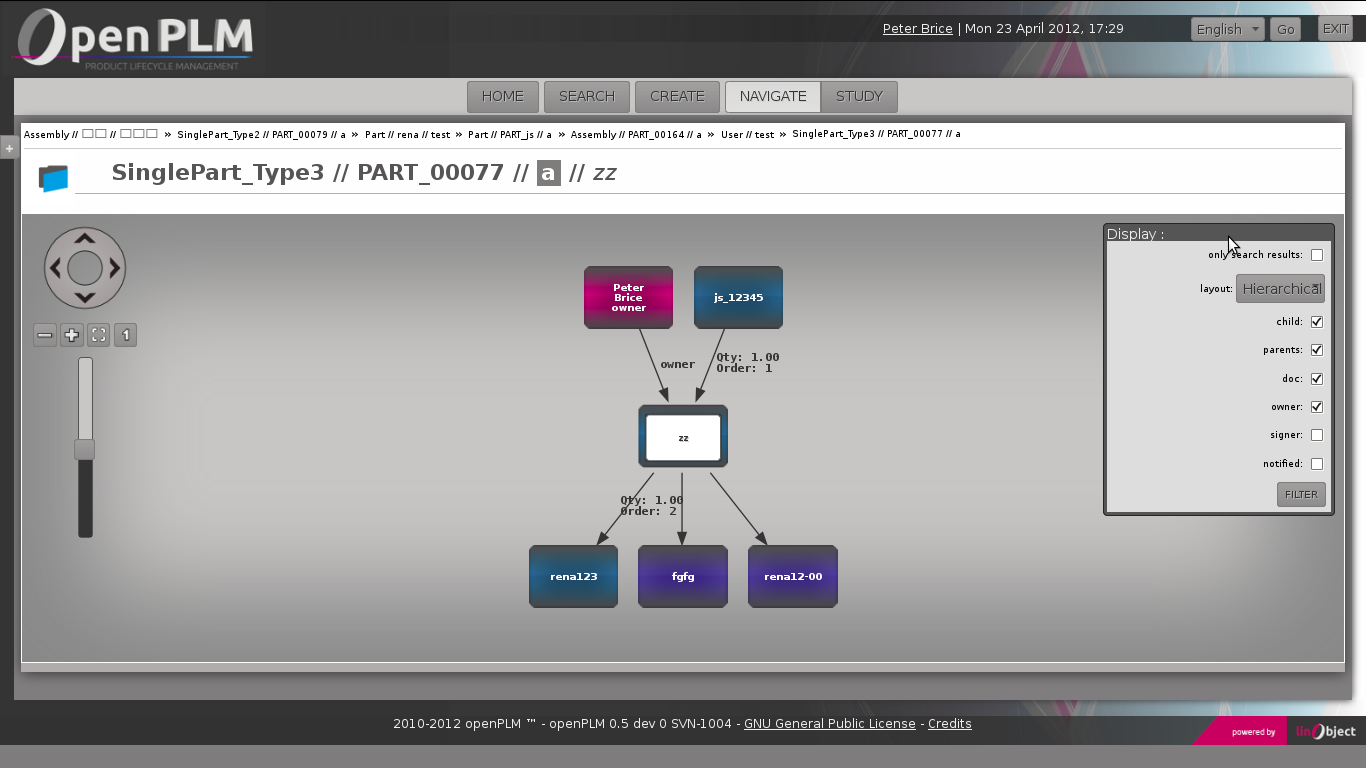
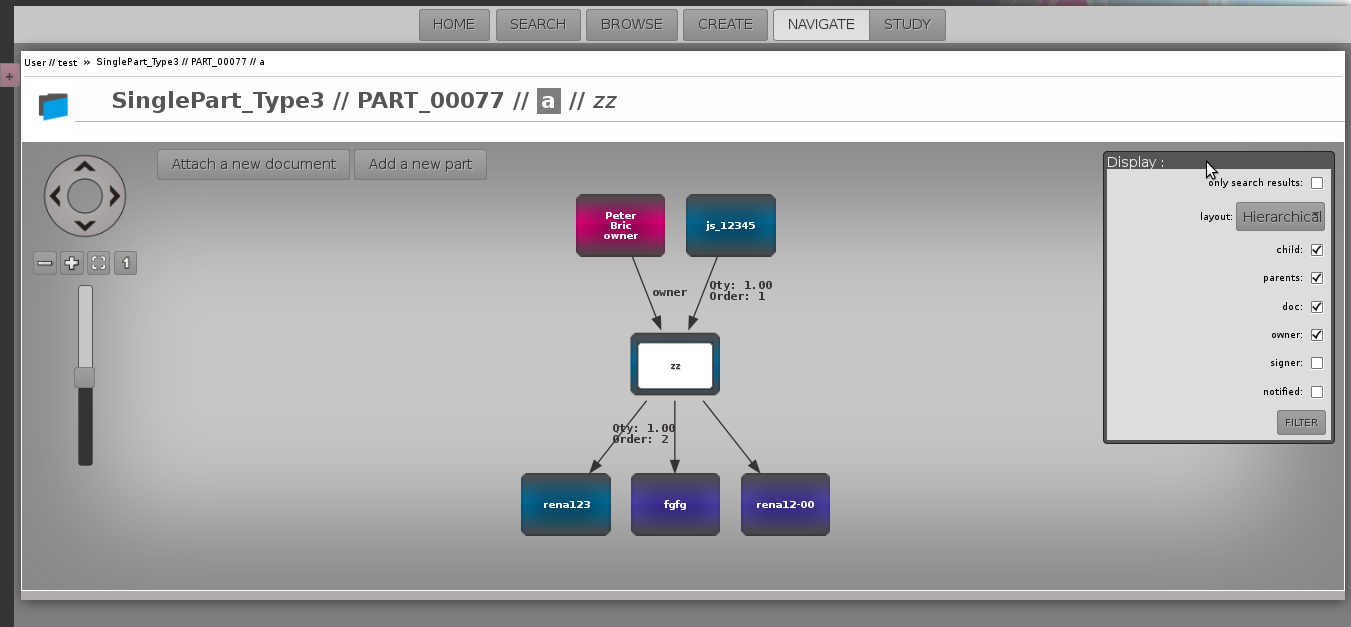
Doc (fr,en) : update screenshots and Common Part paragraph in tuto 1 (main function of OpenPLM)

diff --git a/docs/en/user/tuto_1_main_funct.rst b/docs/en/user/tuto_1_main_funct.rst
@@ -176,15 +176,18 @@ Common Parts
 
 It contains:
 
-    * User's name
+    * User's name (if the user is logged)
     
     * Today's date and hour
     
     * Button to choose the language
     
-    * Link to log out
+    * Link to log out (or login)
     
     * Link to get help
+
+
+**The toolbar**
 
     * Buttons to reach different views
 
@@ -192,10 +195,13 @@ It contains:
 
 If you place your mouse over an object in the history, the corresponding menu will be shown.
 
-Once you logged in, this header appears in all views except the home page.
+Once you are logged in, the header and the toolbar appears in all views. 
+Except in "Home" page, where only the header appears.
 
-.. image:: images/Capture_openPLM_header.png
+.. figure:: images/Capture_openPLM_header.png
    :width: 100%
+   
+   Header and toolbar
 
 
 **The left panel**

diff --git a/docs/fr/user/tuto_1_main_funct.rst b/docs/fr/user/tuto_1_main_funct.rst
@@ -188,6 +188,9 @@ On y retrouve :
     
     * Un lien d'aide
 
+
+**La barre d'outils**
+
     * Des boutons pour accéder aux différentes fonctions
 
     * Un historique des objets accédés pendant la session
@@ -195,11 +198,14 @@ On y retrouve :
 Si on place le curseur de la souris sur un objet dans l'historique, le menu
 correspond apparaitra.
 
-Une fois que vous êtes connecté, cette en-tête apparaît sur toutes les pages,
-exceptée la page d'accueil.
+Une fois que vous êtes connecté, l'en-tête et la barre d'outils apparaissent sur toutes les pages,
+exceptée la page d'accueil. Sur la page d'accueil seule l'en-tête est affichée .
 
-.. image:: images/Capture_openPLM_header.png
+.. figure:: images/Capture_openPLM_header.png
    :width: 100%
+   
+   En-tête et barre d'outils
+   
 
 **Le panneau de gauche**
 
